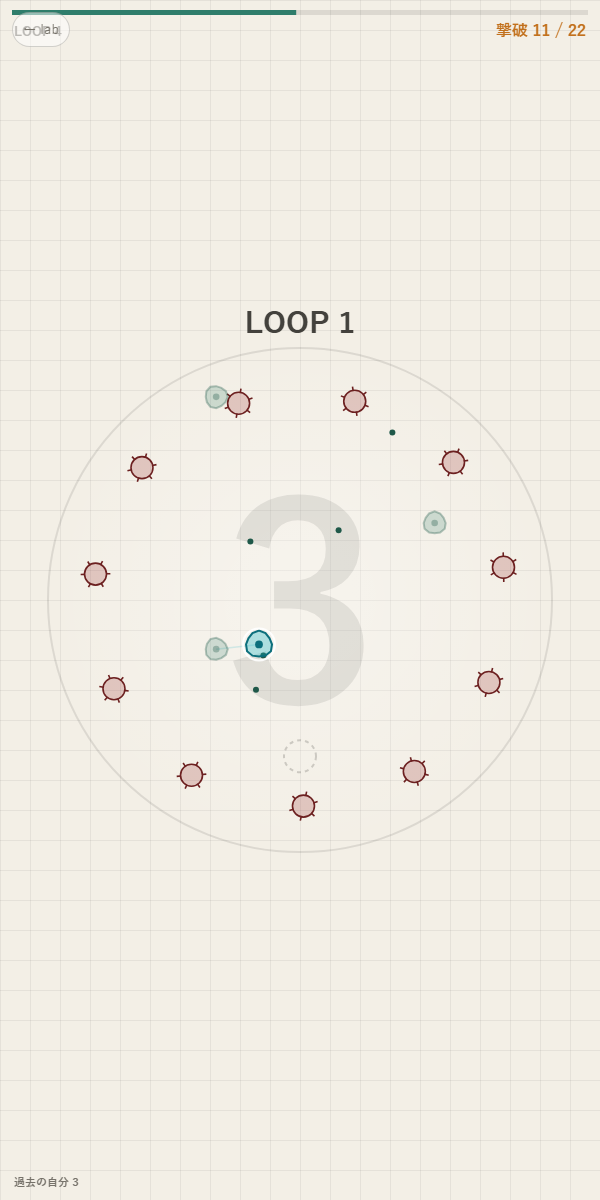
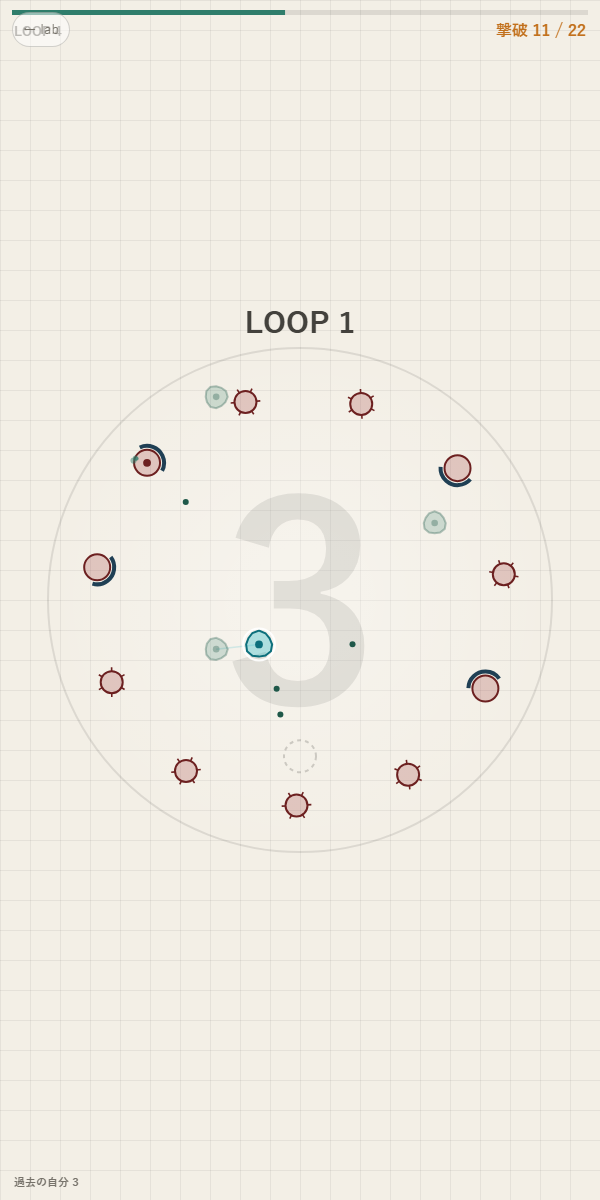
loop5: 盾つき敵で戦略性を注入（過去の自分と挟み撃ち）
「適当に動けば終わる＝戦略が無い」FBに対応。自動射撃で位置が無意味だったのを、
盾つき敵（約4割）＝盾を"一番近い撃ち手"へ向け正面の弾を防ぐ→一人では倒せない。
過去の自分がおとりで盾を引きつけ、別の自分が背後を撃つ挟み撃ちが必須に。
「どこに過去の自分を置くか／今回はおとりか仕留め役か」を計画する戦略が生まれる。
- Enemy に shield/sdir、shooters配列で盾の向き算出、命中時に盾弧内は防御
- 盾は青い弧で可視化、通常敵はトゲ。タイトル/サムネ更新

Claude-Session: https://claude.ai/code/session_01DuezcohD5DxwyBiBBnAQex

diff --git a/games/loop5/main.ts b/games/loop5/main.ts
@@ -137,11 +137,12 @@ const P = tune.panel(
 
 // ── 型・状態 ──
 // 敵（固定編成・ゆっくり回転しながら中心へ）。弾で倒す。ang/rad0 は初期配置
-type Enemy = { x: number; y: number; ang: number; rad: number; rad0: number; ang0: number; r: number; hp: number; maxhp: number; alive: boolean; wob: number }
+// shield=盾持ち：一番近い撃ち手(sdir方向)からの弾を防ぐ→挟み撃ちが必要
+type Enemy = { x: number; y: number; ang: number; rad: number; rad0: number; ang0: number; r: number; hp: number; maxhp: number; alive: boolean; wob: number; shield: boolean; sdir: number }
 type Bullet = { x: number; y: number; vx: number; vy: number; life: number }
 const FIRE_INT = 0.3 // 射撃間隔（全シューター共通）
 const BULLET_SPD = 360
-const ENEMY_HP = 2
+const SHIELD_ARC = 2.5 // 盾が守る角度（ラジアン・約140°）
 type Sample = { t: number; x: number; y: number }
 type Mode = 'title' | 'play' | 'win' | 'rewind'
 let mode: Mode = 'title'
@@ -182,7 +183,9 @@ function newLayout() {
     const ring = i % rings
     const rad0 = dishR * (rings === 1 ? 0.7 : ring === 0 ? 0.55 : 0.85)
     const ang0 = (i / n) * Math.PI * 2 * rings + ring * 0.4
-    enemies.push({ x: 0, y: 0, ang: ang0, rad: rad0, rad0, ang0, r: 11, hp: ENEMY_HP, maxhp: ENEMY_HP, alive: true, wob: Math.random() * 9 })
+    const shield = Math.random() < 0.4 // 約4割は盾持ち＝挟み撃ちが必要
+    const hp = shield ? 2 : 2
+    enemies.push({ x: 0, y: 0, ang: ang0, rad: rad0, rad0, ang0, r: shield ? 13 : 11, hp, maxhp: hp, alive: true, wob: Math.random() * 9, shield, sdir: 0 })
   }
   ghosts = []
   loopNum = 1
@@ -322,7 +325,15 @@ function update(dt: number) {
   // 記録（今ループの自分の軌跡）
   rec.push({ t: loopTime, x: you.x, y: you.y })
 
-  // 敵：ゆっくり回転しながら中心へ寄る（毎ループ同じ動き）
+  // 全撃ち手の位置（今の自分＋過去の自分）。盾の向きと射撃に使う
+  const shooters: { x: number; y: number }[] = [{ x: you.x, y: you.y }]
+  for (let k = 0; k < ghosts.length; k++) {
+    const g = ghostPosAt(ghosts[k], loopTime, gcur[k])
+    gcur[k] = g.ci
+    shooters.push({ x: g.x, y: g.y })
+  }
+
+  // 敵：ゆっくり回転しながら中心へ。盾は“一番近い撃ち手”へ向く
   for (const e of enemies) {
     if (!e.alive) continue
     e.wob += dt * 5
@@ -330,9 +341,23 @@ function update(dt: number) {
     e.rad = Math.max(34, e.rad - 7 * dt)
     e.x = cx + Math.cos(e.ang) * e.rad
     e.y = cy + Math.sin(e.ang) * e.rad
+    if (e.shield) {
+      let nd = 1e9
+      let nx = 0
+      let ny = 0
+      for (const s of shooters) {
+        const d = (s.x - e.x) ** 2 + (s.y - e.y) ** 2
+        if (d < nd) {
+          nd = d
+          nx = s.x
+          ny = s.y
+        }
+      }
+      e.sdir = Math.atan2(ny - e.y, nx - e.x)
+    }
   }
 
-  // 射撃：今の自分＋過去の自分（幽霊）が最寄りの敵へ撃つ＝周回で自軍が育つ
+  // 射撃：各撃ち手が最寄りの敵へ（周回で自軍が育つ）
   youCool -= dt
   if (youCool <= 0) {
     if (fireFrom(you.x, you.y)) {
@@ -341,16 +366,15 @@ function update(dt: number) {
     } else youCool = 0.06
   }
   for (let k = 0; k < ghosts.length; k++) {
-    const g = ghostPosAt(ghosts[k], loopTime, gcur[k])
-    gcur[k] = g.ci
+    const s = shooters[k + 1]
     gCool[k] -= dt
     if (gCool[k] <= 0) {
-      if (fireFrom(g.x, g.y)) gCool[k] = FIRE_INT
+      if (fireFrom(s.x, s.y)) gCool[k] = FIRE_INT
       else gCool[k] = 0.06
     }
   }
 
-  // 弾：移動＋敵に命中
+  // 弾：移動＋敵に命中（盾は正面からの弾を防ぐ＝挟み撃ちで背後を撃つ）
   for (const b of bullets) {
     b.x += b.vx * dt
     b.y += b.vy * dt
@@ -358,6 +382,18 @@ function update(dt: number) {
     for (const e of enemies) {
       if (!e.alive) continue
       if (Math.hypot(e.x - b.x, e.y - b.y) < e.r + 4) {
+        if (e.shield) {
+          const ba = Math.atan2(b.y - e.y, b.x - e.x) // 弾が来た方向
+          let diff = ba - e.sdir
+          while (diff > Math.PI) diff -= Math.PI * 2
+          while (diff < -Math.PI) diff += Math.PI * 2
+          if (Math.abs(diff) < SHIELD_ARC / 2) {
+            // 盾で防御＝ダメージ無し
+            b.life = 0
+            fx.burst(b.x, b.y, 3, C.muted, 70)
+            break
+          }
+        }
         e.hp--
         b.life = 0
         fx.burst(b.x, b.y, 3, C.ghost, 90)
@@ -477,27 +513,39 @@ function drawEnemies() {
   for (const e of enemies) {
     if (!e.alive) continue
     const edge = darken(C.danger, 0.7)
-    // トゲ付きの菌
-    ctx.strokeStyle = edge
-    ctx.lineWidth = 1.6
-    for (let i = 0; i < 6; i++) {
-      const a = (i / 6) * Math.PI * 2 + e.wob * 0.2
-      ctx.beginPath()
-      ctx.moveTo(e.x + Math.cos(a) * e.r * 0.95, e.y + Math.sin(a) * e.r * 0.95)
-      ctx.lineTo(e.x + Math.cos(a) * e.r * 1.35, e.y + Math.sin(a) * e.r * 1.35)
-      ctx.stroke()
+    if (!e.shield) {
+      // 普通の菌：トゲ付き
+      ctx.strokeStyle = edge
+      ctx.lineWidth = 1.6
+      for (let i = 0; i < 6; i++) {
+        const a = (i / 6) * Math.PI * 2 + e.wob * 0.2
+        ctx.beginPath()
+        ctx.moveTo(e.x + Math.cos(a) * e.r * 0.95, e.y + Math.sin(a) * e.r * 0.95)
+        ctx.lineTo(e.x + Math.cos(a) * e.r * 1.35, e.y + Math.sin(a) * e.r * 1.35)
+        ctx.stroke()
+      }
     }
+    // 本体
     ctx.fillStyle = hexA(C.danger, 0.22)
     ctx.beginPath()
     ctx.arc(e.x, e.y, e.r, 0, Math.PI * 2)
     ctx.fill()
     ctx.strokeStyle = edge
+    ctx.lineWidth = 2
     ctx.stroke()
     if (e.hp < e.maxhp) {
       ctx.fillStyle = edge
       ctx.beginPath()
       ctx.arc(e.x, e.y, e.r * 0.3, 0, Math.PI * 2)
       ctx.fill()
+    }
+    // 盾（sdir 方向の厚い弧）＝この向きからは防がれる
+    if (e.shield) {
+      ctx.strokeStyle = darken('#3f7fa8', 0.5)
+      ctx.lineWidth = 4
+      ctx.beginPath()
+      ctx.arc(e.x, e.y, e.r + 4, e.sdir - SHIELD_ARC / 2, e.sdir + SHIELD_ARC / 2)
+      ctx.stroke()
     }
   }
 }
@@ -637,7 +685,7 @@ function drawBanner() {
 function drawTitle() {
   drawHowToCard(ctx, W, H, {
     title: '5秒、くりかえし。',
-    lines: ['敵を全滅させる。指で動くと自動で撃つ', '5秒ごとに“過去の自分”が幽霊で再生し一緒に撃つ', '自軍を積み上げ、何周で殲滅できる？'],
+    lines: ['敵を全滅（動くと自動で撃つ）', '盾つきは正面を防ぐ→過去の自分と挟み撃ち', 'おとりと仕留め役を計画。何周で殲滅？'],
     start: 'タップでスタート',
     footer: bestLoops > 0 ? `best: ${bestLoops}周でクリア` : undefined,
     accent: C.amber,